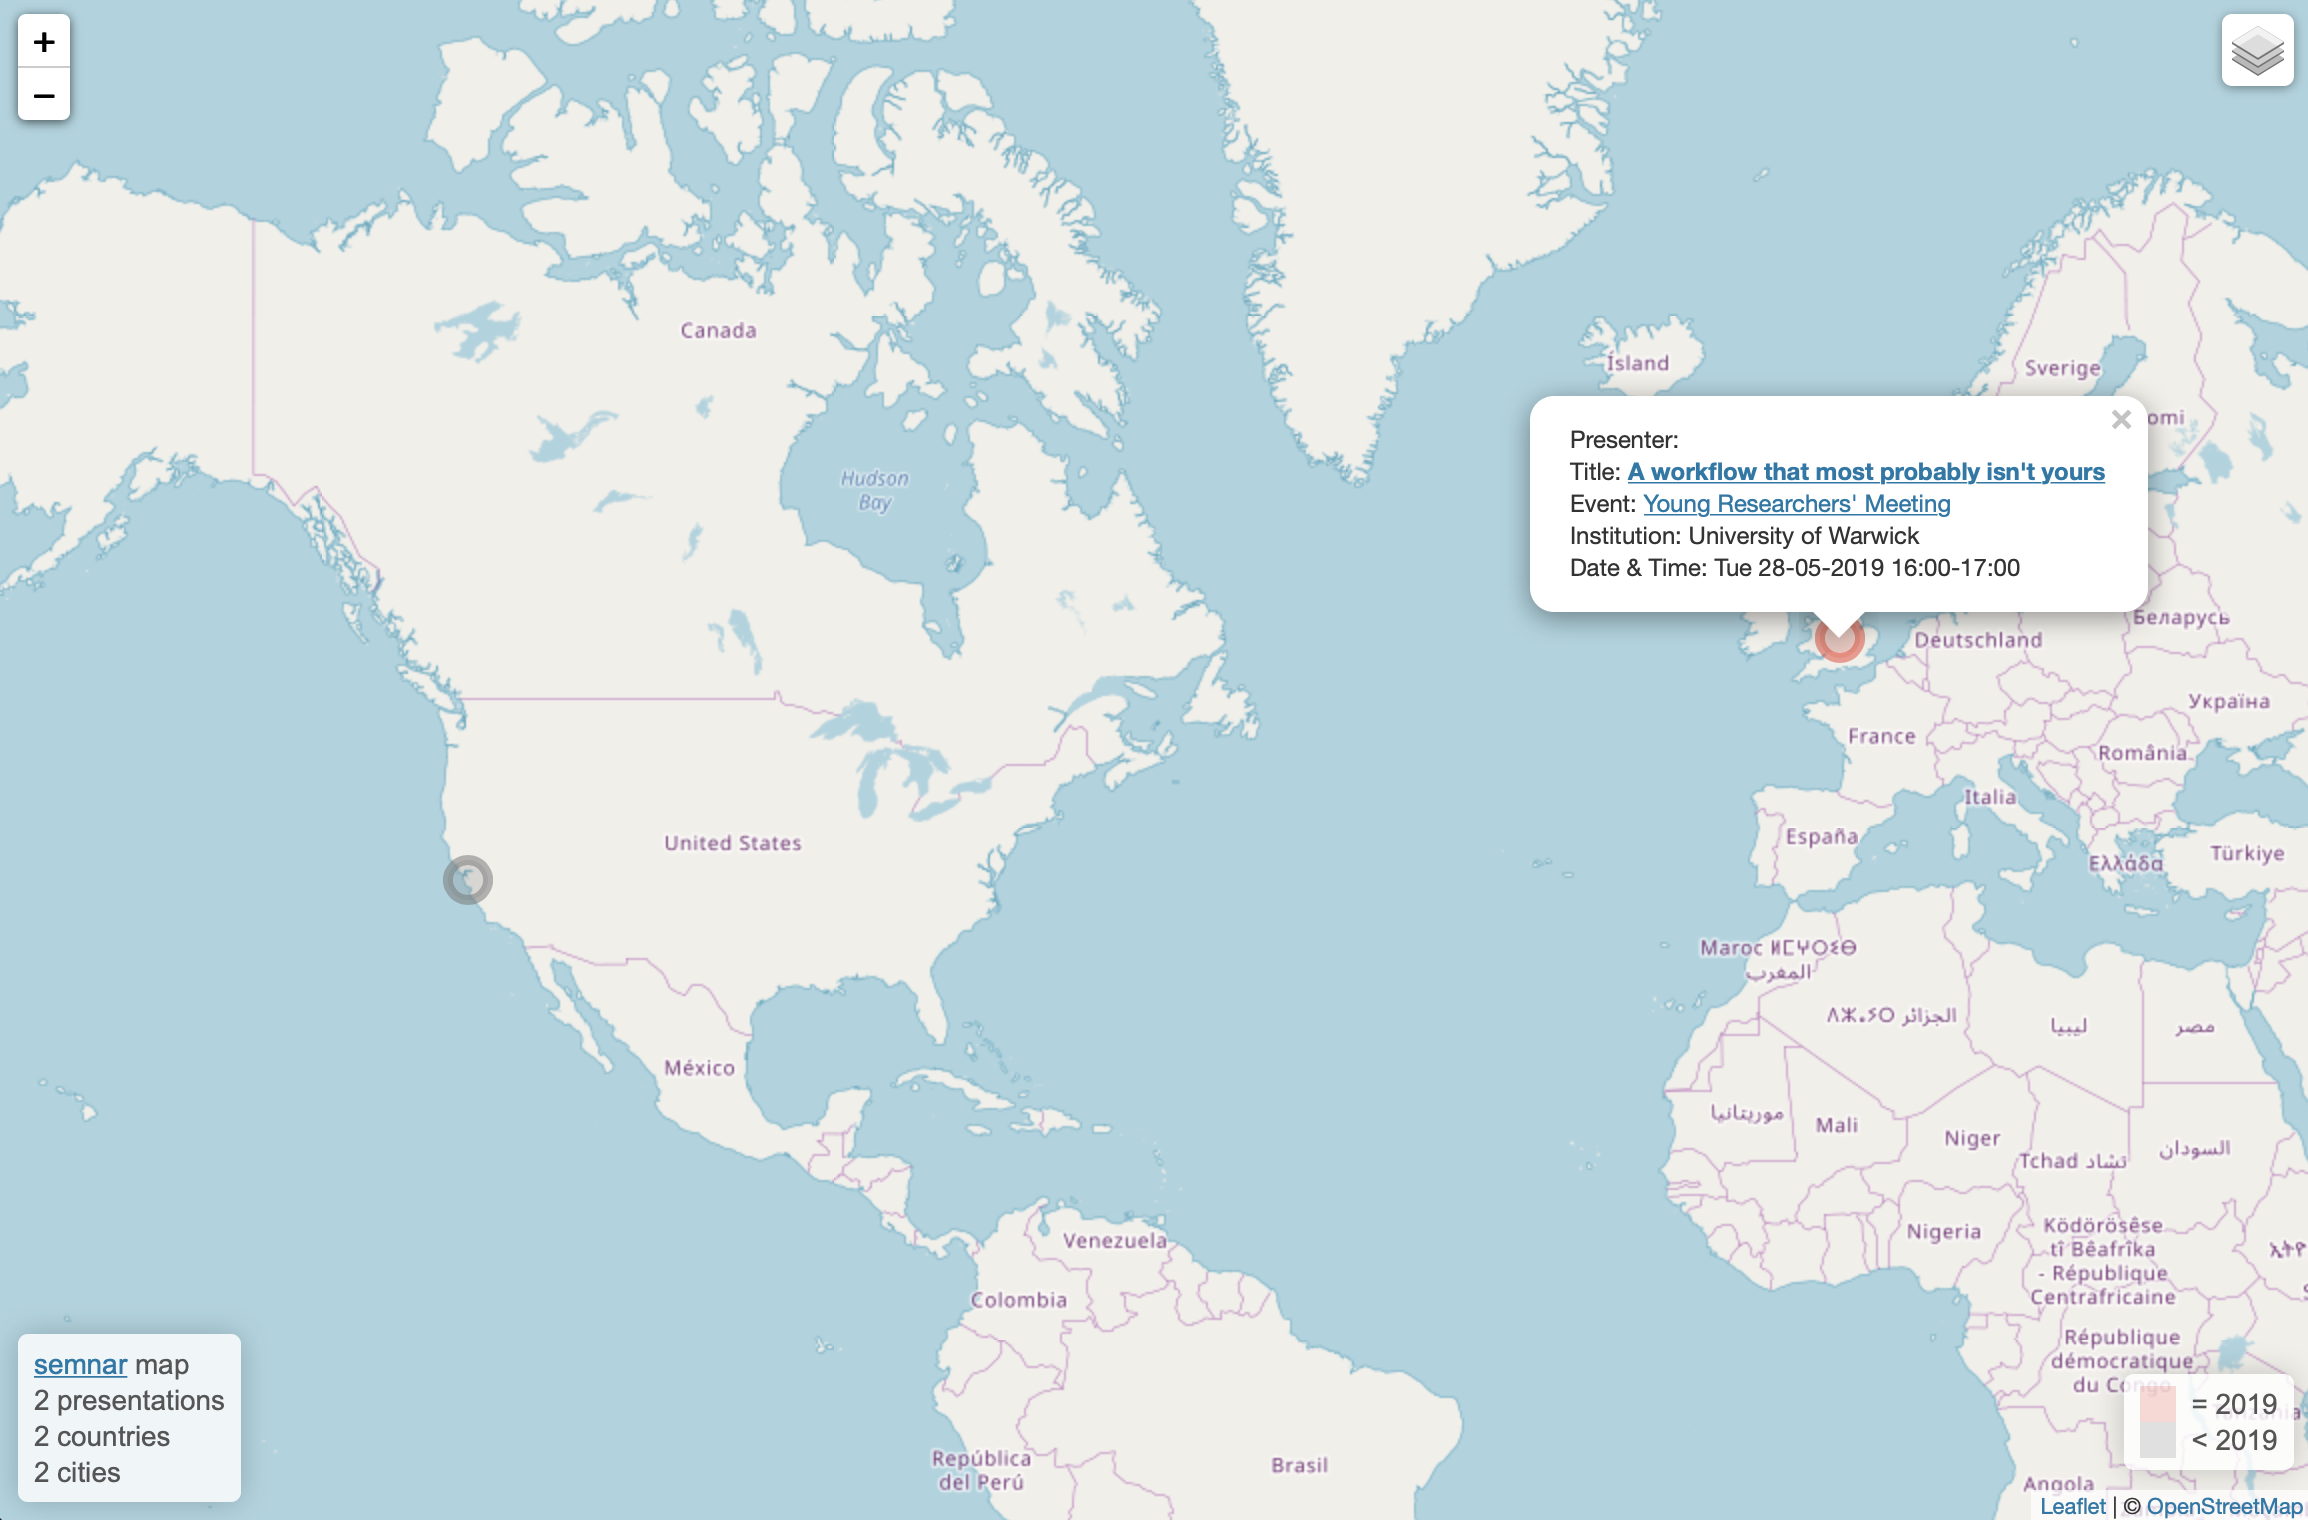
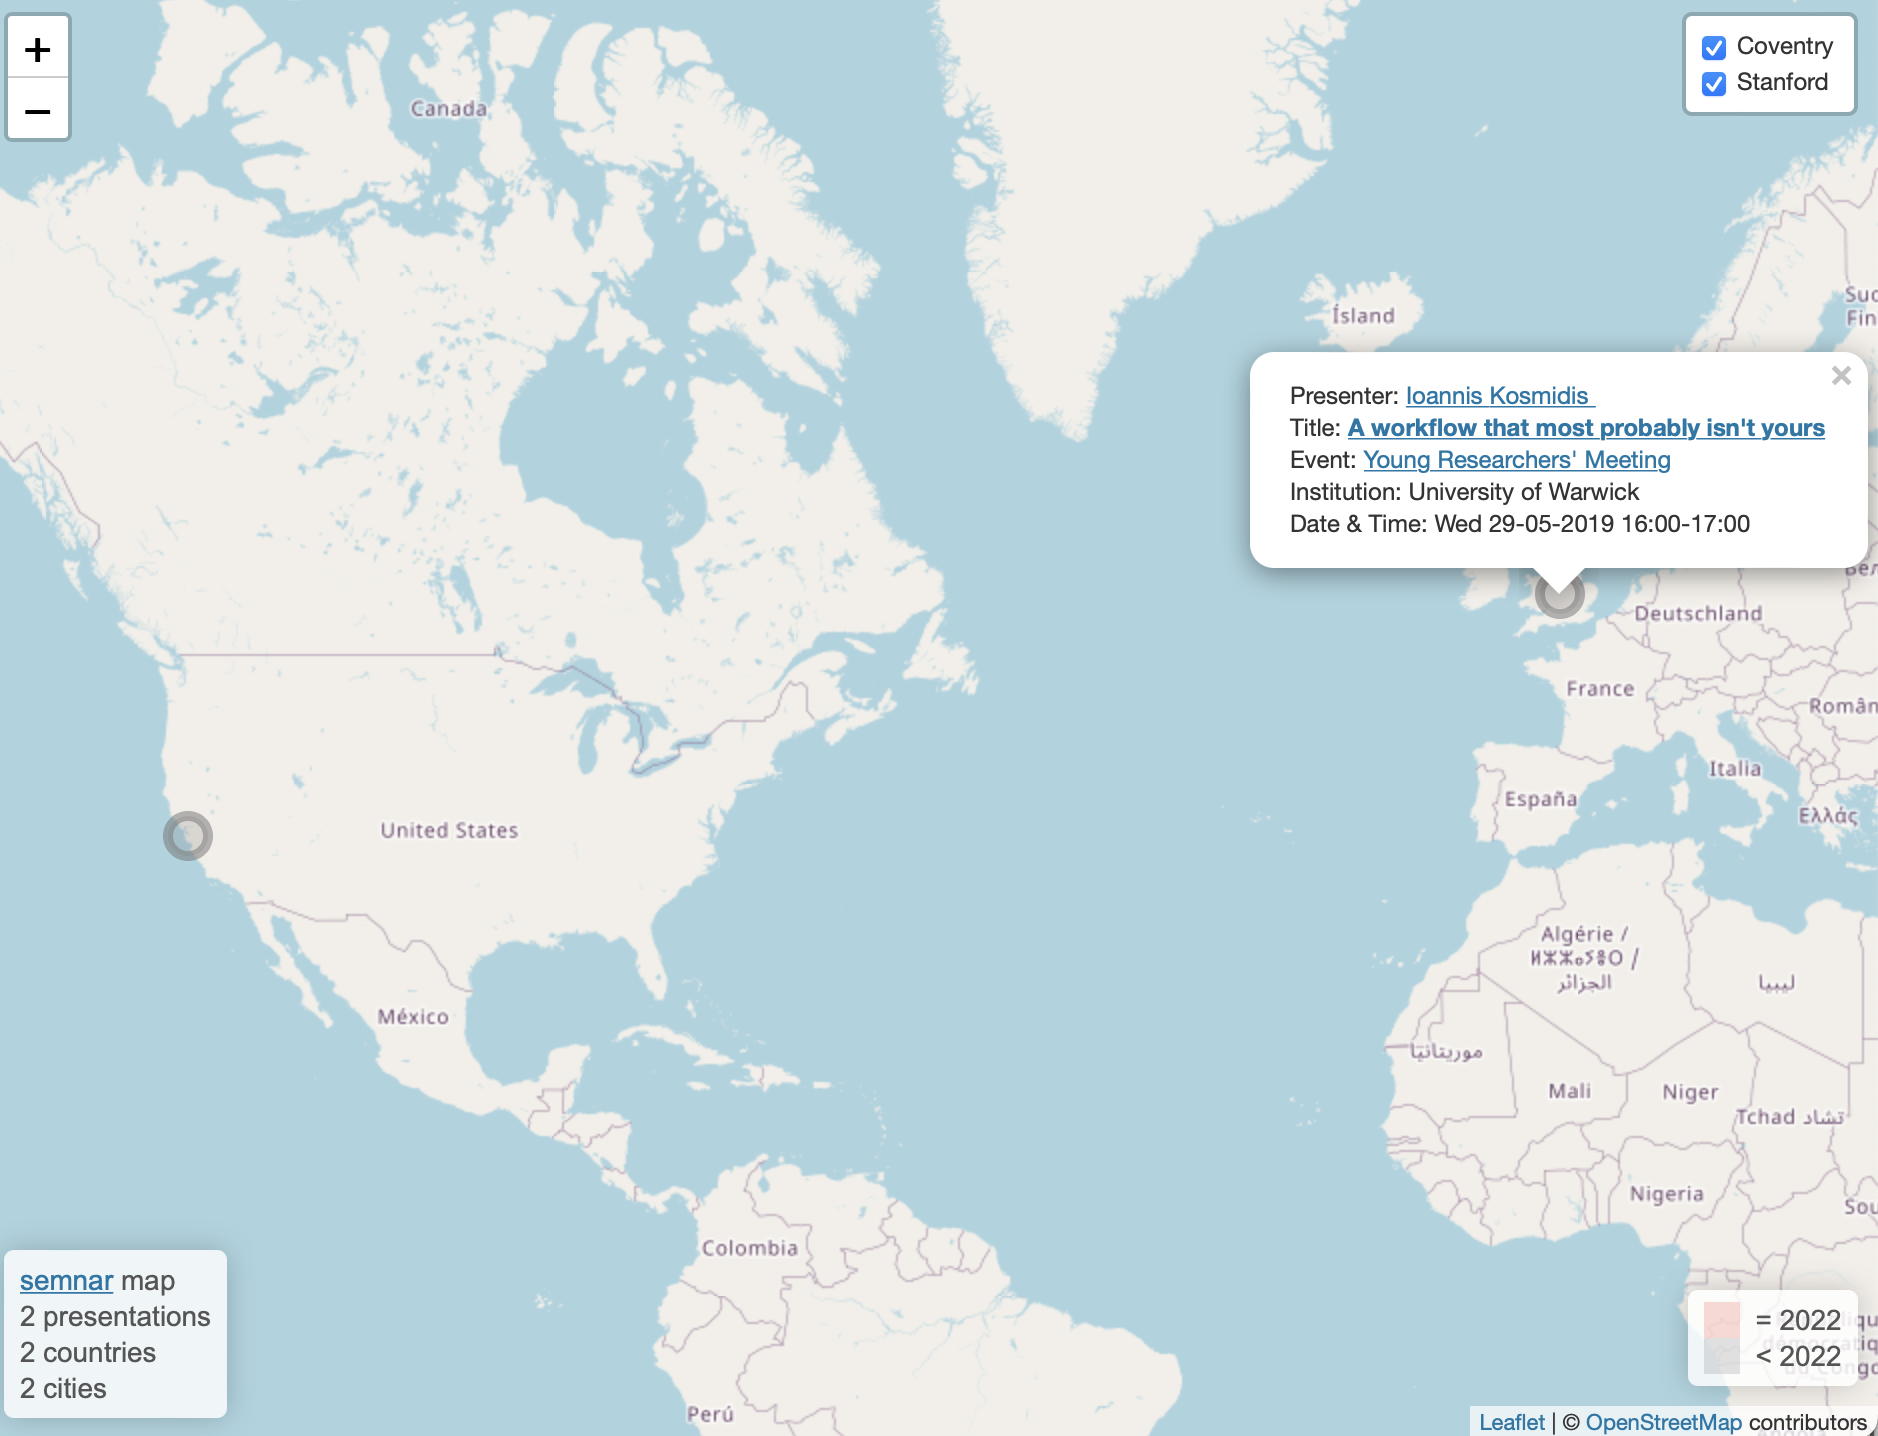
Readme updates

diff --git a/README.md b/README.md
@@ -128,8 +128,9 @@ IK_talks <- IK_talks |>
 ```
 
 `start` and `end` are parsed using the
-[**parsedate**](https:://cran.r-project.org/package=parsedate), which
-allows for great flexibilty in the format that dates/times are supplied.
+[**parsedate**](https://cran.r-project.org/package=parsedate) R package,
+which allows for great flexibility in the format that dates/times are
+supplied.
 
 `add_presentation` provides many arguments (see `?add_presentation`) to
 cover as much detail as I could think of relevant to a presentation.
@@ -140,7 +141,7 @@ The details in the database can be mapped using
 [**leaflet**](https://cran.r-project.org/package=leaflet):
 
 ``` r
-plot(IK_talks, group = "year",
+plot(IK_talks, group = "city",
      title = "<a href='https://cran.r-project.org/package=semnar'>semnar</a> map")
 ```
 
